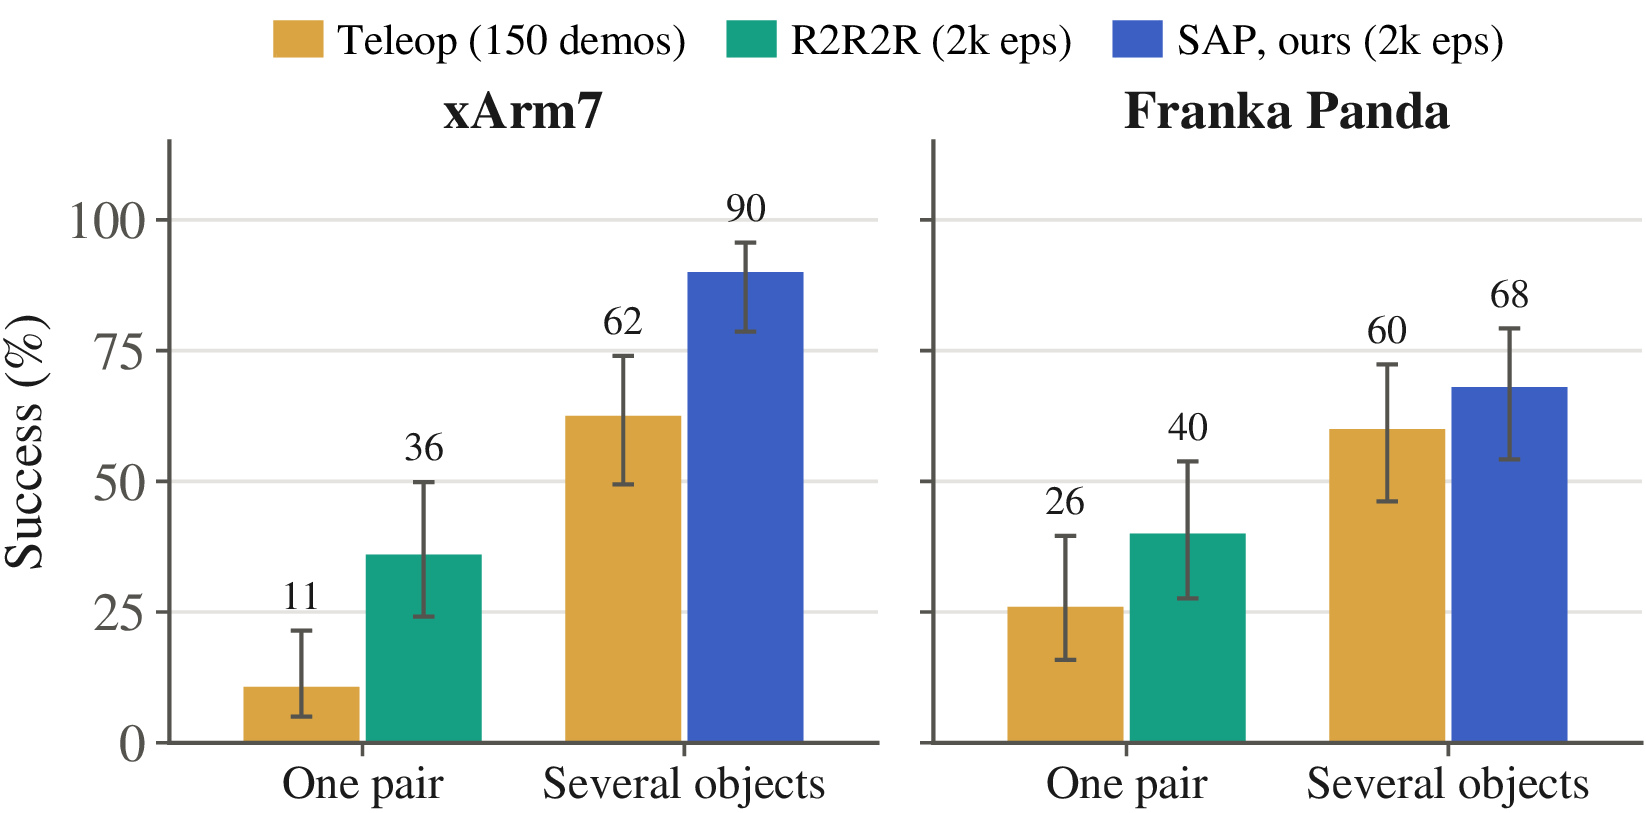
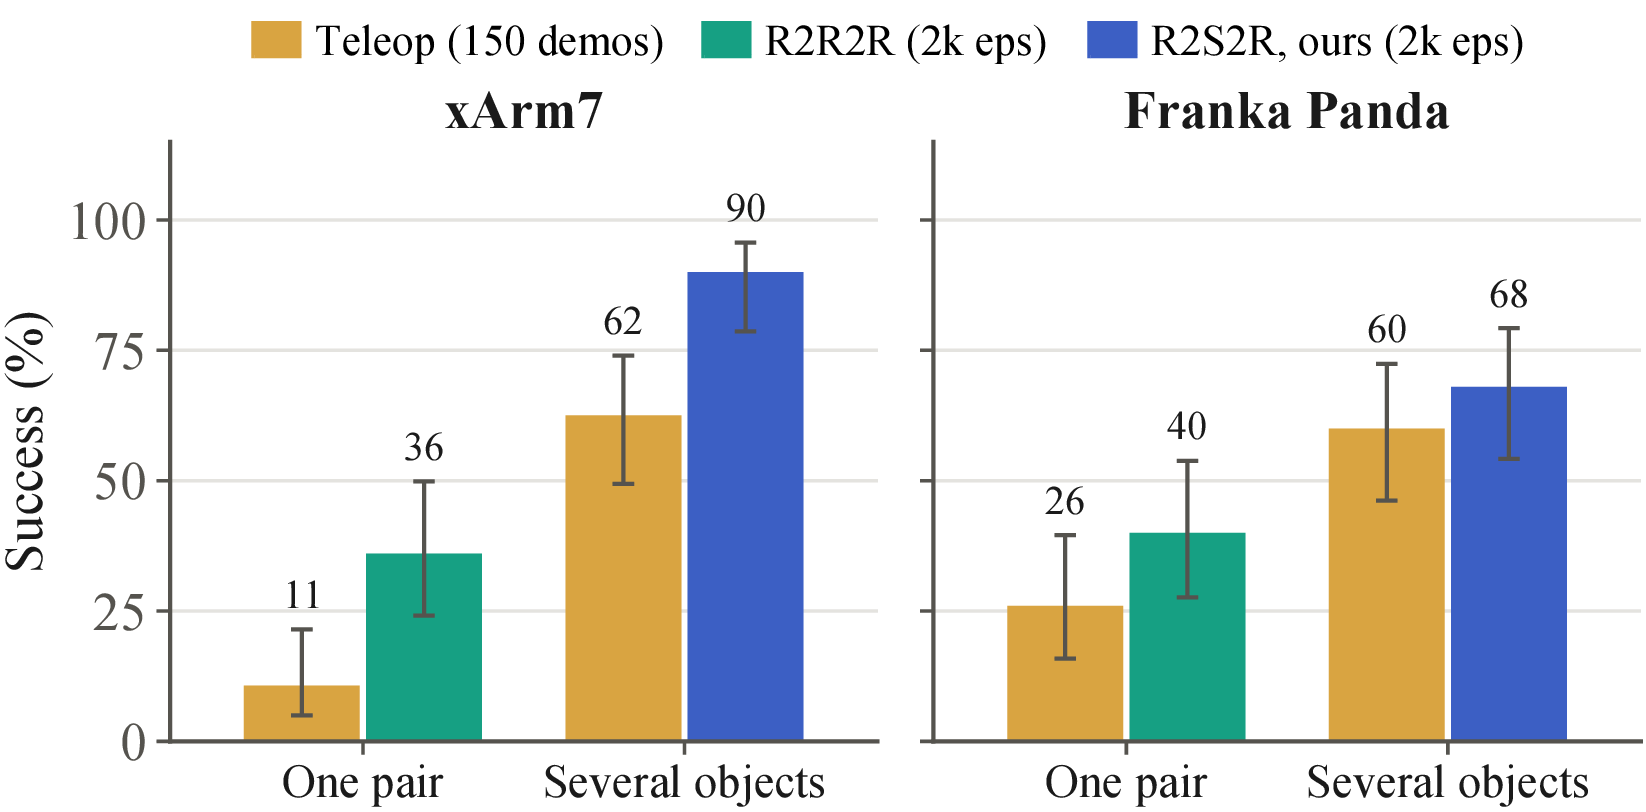
Rename the method to Real2Sem2Real (R2S2R) and re-render the renamed charts
Introduce R2S2R in the hero paragraph and use the abbreviation after that.
Re-render success_rates, diversity_source, data_scaling and the new vector
scaling_comparison from the paper figures, which now label the method R2S2R.

diff --git a/index.html b/index.html
@@ -230,7 +230,7 @@
   <figure class="wide">
     <img src="static/images/task_visualization.png" alt="Four tasks, each shown as a single human demonstration and then executed by an xArm7 and a Franka Panda: placing a mug on a coffee machine, pouring a mug into a bowl, hanging a mug on a mug tree, and a drill pick and place.">
   </figure>
-  <p>Teleoperation pays for every demonstration, and every new object instance pays again. Real2Sem2Real turns
+  <p>Teleoperation pays for every demonstration, and every new object instance pays again. Real2Sem2Real (R2S2R) turns
   <b>one human RGB video</b> into thousands of robot demonstrations across the object instances of a category,
   with no depth sensor and no teleoperation. It tracks the demonstrated objects, generates
   <b>digital cousins</b> of them from photographs, aligns the cousins to the demonstration by their semantics,
@@ -243,7 +243,7 @@
   </ul>
   <div class="stats hero-stats">
     <div class="stat"><div class="v">62 <small>&rarr;</small> 90<small>%</small></div>
-      <div class="l">Mug placement on the xArm7, teleoperation vs Real2Sem2Real</div></div>
+      <div class="l">Mug placement on the xArm7, teleoperation vs R2S2R</div></div>
     <div class="stat"><div class="v">36 <small>&rarr;</small> 90<small>%</small></div>
       <div class="l">Same task, one object pair (R2R2R) vs digital cousins</div></div>
     <div class="stat"><div class="v">7 <small>/</small> 7</div>
@@ -263,15 +263,15 @@
   <p>Existing real-to-sim pipelines also break at three recurring points: the object track drifts, the
   recovered grasp collides with the object, and the reconstructed meshes look nothing like the real scene.</p>
   <figure>
-    <img src="static/images/common_failure_modes.png" loading="lazy" alt="Three rows of failure modes, tracking issues, grasp failures and unrealistic meshes, comparing the real frame, previous methods, and Real2Sem2Real.">
+    <img src="static/images/common_failure_modes.png" loading="lazy" alt="Three rows of failure modes, tracking issues, grasp failures and unrealistic meshes, comparing the real frame, previous methods, and R2S2R.">
     <figcaption><b>Common failure modes.</b> Across tracking, grasping and meshes, previous methods degrade while
-    Real2Sem2Real stays faithful to the real observation.</figcaption>
+    R2S2R stays faithful to the real observation.</figcaption>
   </figure>
 </section>
 
 <section id="method">
   <div class="eyebrow">02</div>
-  <h2>How does Real2Sem2Real work?</h2>
+  <h2>How does R2S2R work?</h2>
   <figure class="wide">
     <img src="static/images/pipeline.png" loading="lazy" alt="Pipeline in four panels: a single human RGB demonstration with the recovered hand mesh, a generated library of 16 cousin mugs and 9 cousin coffee machines, robot demonstrations rendered in simulation along the tracked trajectory, and the deployed policy succeeding on in- and out-of-distribution mugs and machines.">
   </figure>
@@ -362,7 +362,7 @@
   <p>We fine-tune the &pi;<sub>0.5</sub> vision-language-action model on three kinds of data and evaluate on real
   robots: <b>teleoperation</b>, 150 real demonstrations collected across several objects; <b>R2R2R</b>, 2,000
   generated episodes of the single demonstrated object pair, following Real2Render2Real; and
-  <b>Real2Sem2Real</b>, 2,000 generated episodes across digital cousins.</p>
+  <b>R2S2R</b>, 2,000 generated episodes across digital cousins.</p>
 
   <h3>xArm7</h3>
   <div class="chart" data-chart="xarm7"></div>
@@ -387,14 +387,14 @@
 
   <h3>More generated data keeps helping</h3>
   <figure class="narrow">
-    <img src="static/images/data_scaling.png" loading="lazy" alt="Line chart of success against the number of training episodes on a log scale, for teleoperation on several objects, Real2Sem2Real across cousins, teleoperation on one pair, and R2R2R on one pair.">
+    <img src="static/images/data_scaling.png" loading="lazy" alt="Line chart of success against the number of training episodes on a log scale, for teleoperation on several objects, R2S2R across cousins, teleoperation on one pair, and R2R2R on one pair.">
     <figcaption><b>Success against training-set size</b> on xArm7 placement. R2R2R levels off below 40%, while
-    Real2Sem2Real keeps improving and passes the largest teleoperated set. The charts label our method SAP.</figcaption>
+    R2S2R keeps improving and passes the largest teleoperated set.</figcaption>
   </figure>
 
   <details class="more"><summary>What the data costs to collect</summary>
   <figure>
-    <img src="static/images/scaling_comparison.png" loading="lazy" alt="Log-log plot of demonstrations produced against wall-clock time for teleoperation with 1, 10 and 100 operators and for R2R2R and SAP with 1 and 100 GPUs.">
+    <img src="static/images/scaling_comparison.png" loading="lazy" alt="Log-log plot of demonstrations produced against wall-clock time for teleoperation with 1, 10 and 100 operators and for R2R2R and R2S2R with 1 and 100 GPUs.">
     <figcaption><b>Demonstrations against wall-clock time.</b> Teleoperation grows linearly with human time.
     Generated data needs a short one-time setup and then scales with GPUs.</figcaption>
   </figure>
@@ -459,7 +459,7 @@
   store, or generated by an image model.</p></details>
 
   <details><summary>How is this different from Real2Render2Real?</summary>
-  <p>R2R2R augments the poses of the objects that were demonstrated. Real2Sem2Real adds semantic augmentation:
+  <p>R2R2R augments the poses of the objects that were demonstrated. R2S2R adds semantic augmentation:
   the same demonstration is transferred to new object instances. Trained on the same number of episodes, the
   cousins raise mug placement on the xArm7 from 36% to 90%.</p></details>
 
@@ -482,7 +482,7 @@
   // Results charts and table, from the project's results tracker (successes / trials per condition).
   // To update: edit R below. null = evaluation still running.
   (function(){
-    var M=[['teleop','Teleoperation (150 demos)'],['r2r2r','R2R2R (2k episodes, one pair)'],['ours','Real2Sem2Real (2k episodes, cousins)']];
+    var M=[['teleop','Teleoperation (150 demos)'],['r2r2r','R2R2R (2k episodes, one pair)'],['ours','R2S2R (2k episodes, cousins)']];
     var R={
       xarm7:[['Mug on coffee machine',[35,56],[18,50],[45,50]],
              ['Pour into bowl',[35,48],[22,48],[37,50]],
